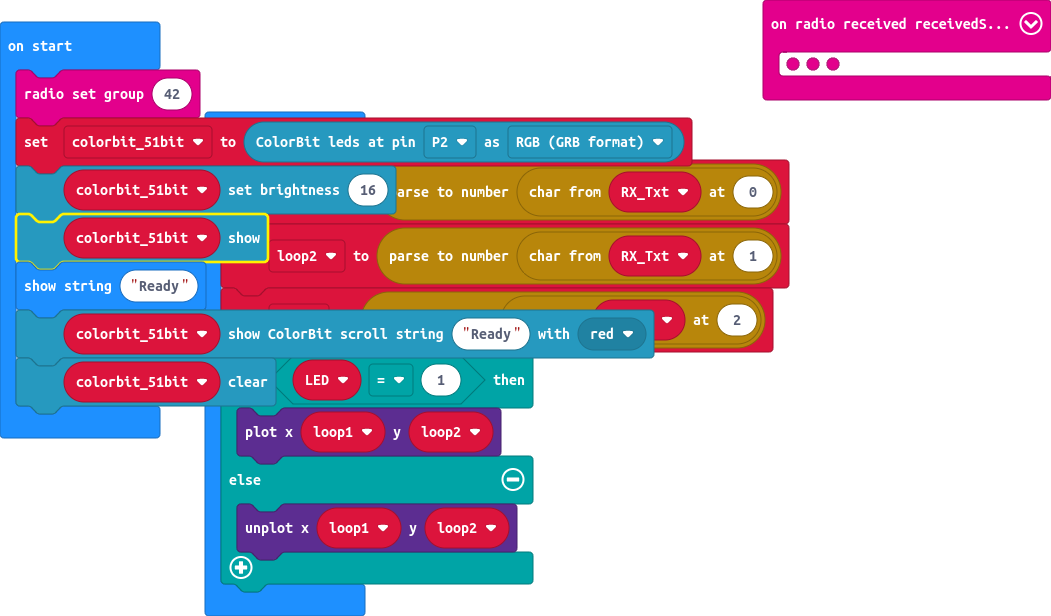
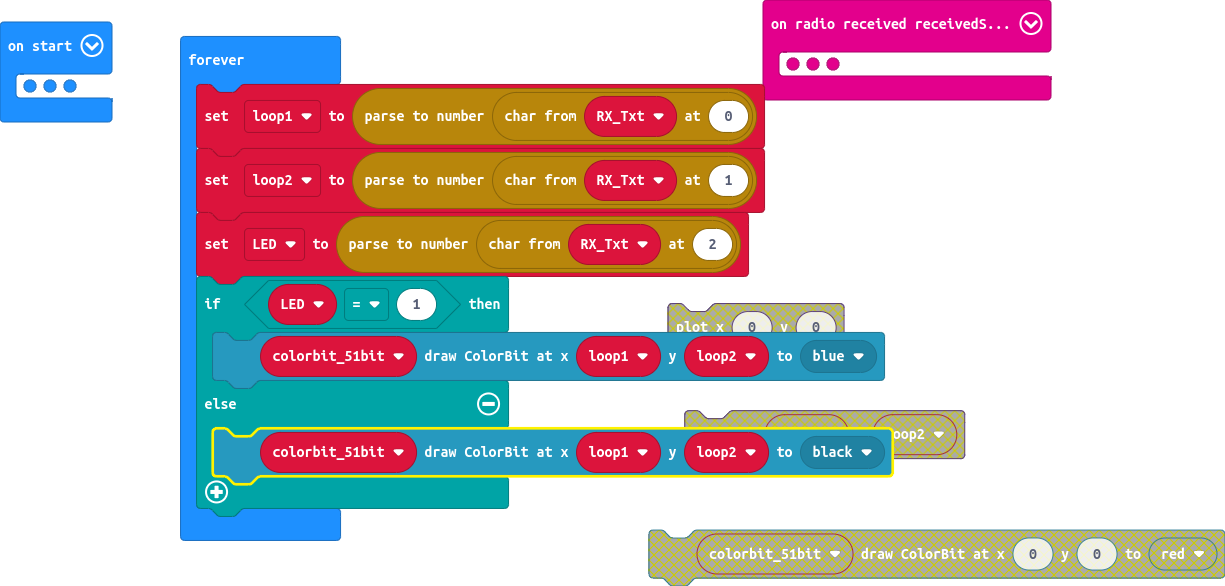
add colorbit plot commands

diff --git a/main.ts b/main.ts
@@ -17,8 +17,8 @@ basic.forever(function () {
     loop2 = parseFloat(RX_Txt.charAt(1))
     LED = parseFloat(RX_Txt.charAt(2))
     if (LED == 1) {
-        led.plot(loop1, loop2)
+        colorbit_51bit.drawColorBit(loop1, loop2, colorbit.colors(BitColors.Blue))
     } else {
-        led.unplot(loop1, loop2)
+        colorbit_51bit.drawColorBit(loop1, loop2, colorbit.colors(BitColors.Black))
     }
 })
